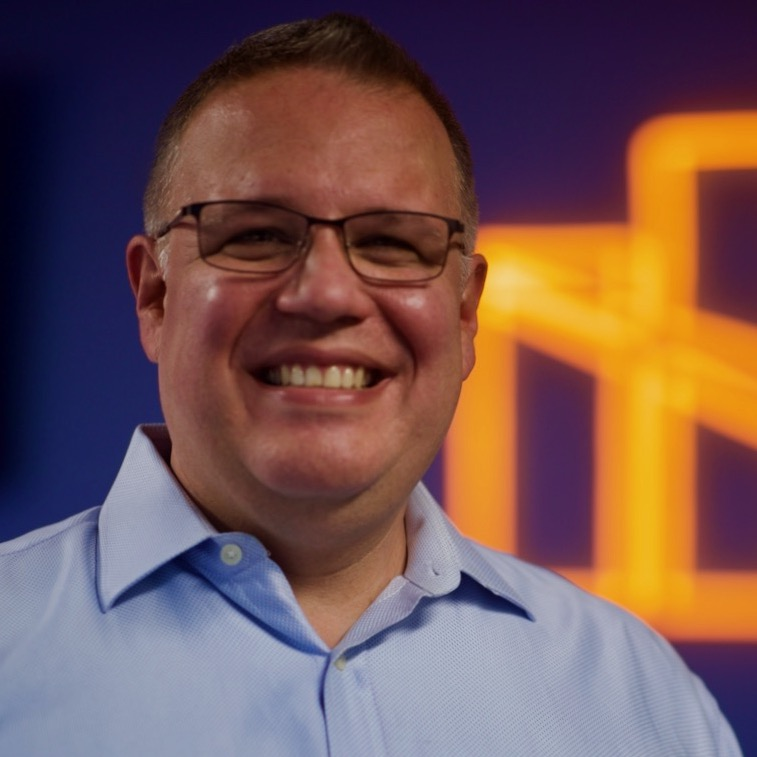
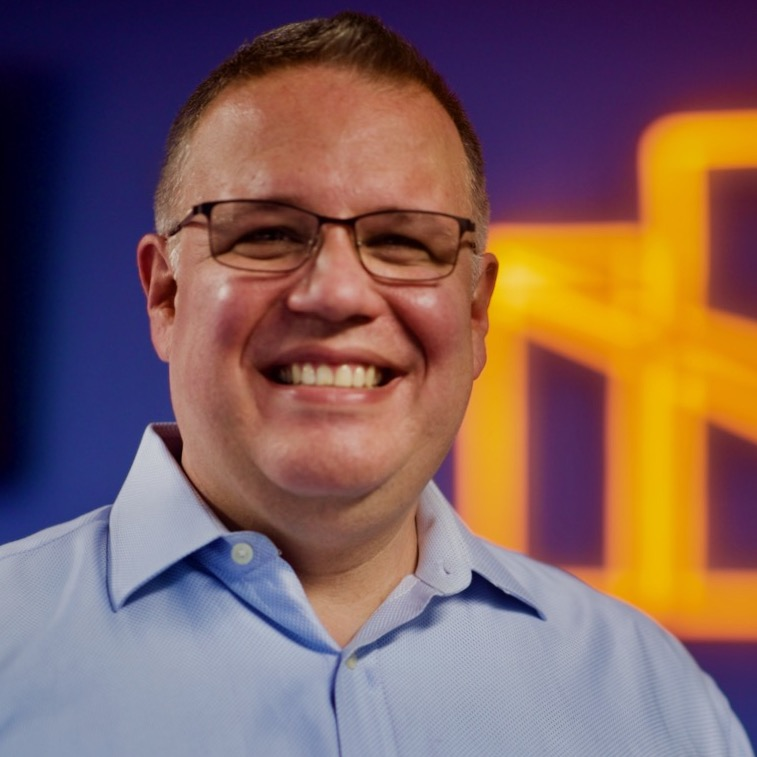
More new photos

diff --git a/src/templates/company/index.html b/src/templates/company/index.html
@@ -156,7 +156,7 @@ billboard: Who We Are
 <br />
 <h3 style="margin-bottom: 0;">Mike McKeon</h3>
 <h4 class="title" style="margin-top: 0;">Senior Technology Solutions Lead, Syrinx</h4>
-<img class="profilePic" src="/assets/img/company/MikeMcKeon.jpg" alt="Mike" height="133" width="133" />
+<img class="profilePic" src="/assets/img/company/MikeMcKeon.jpeg" alt="Mike" height="133" width="133" />
 <p>
   Mike McKeon joined Syrinx in 2019 with six years of IT recruiting/staffing experience. He started his career with some
   of the largest staffing companies in the US, but wanted to come on board with Syrinx where he could be surrounded by
